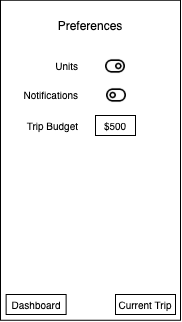
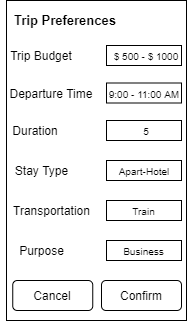
Updated preferences

diff --git a/README.md b/README.md
@@ -28,7 +28,7 @@ On their profile, users will be able to view all of their account details (name,
 ![](/ux-design/Profile.png)
 
 #### Preferences
-This screen contains the preferences for the user. Right now, we've included the preferences for units (imperial or metric), trip budget, and notifications. More preferences will be added as we build our application.
+This screen contains the preferences for the user's current trip. This snapshot includes a few important factors that determine the recommendations we provide. These factors include budget, departure time, duration, transport, stay type and purpose. More important factors could be added at a later time. 
 
 ![](/ux-design/Preferences.png)
 
